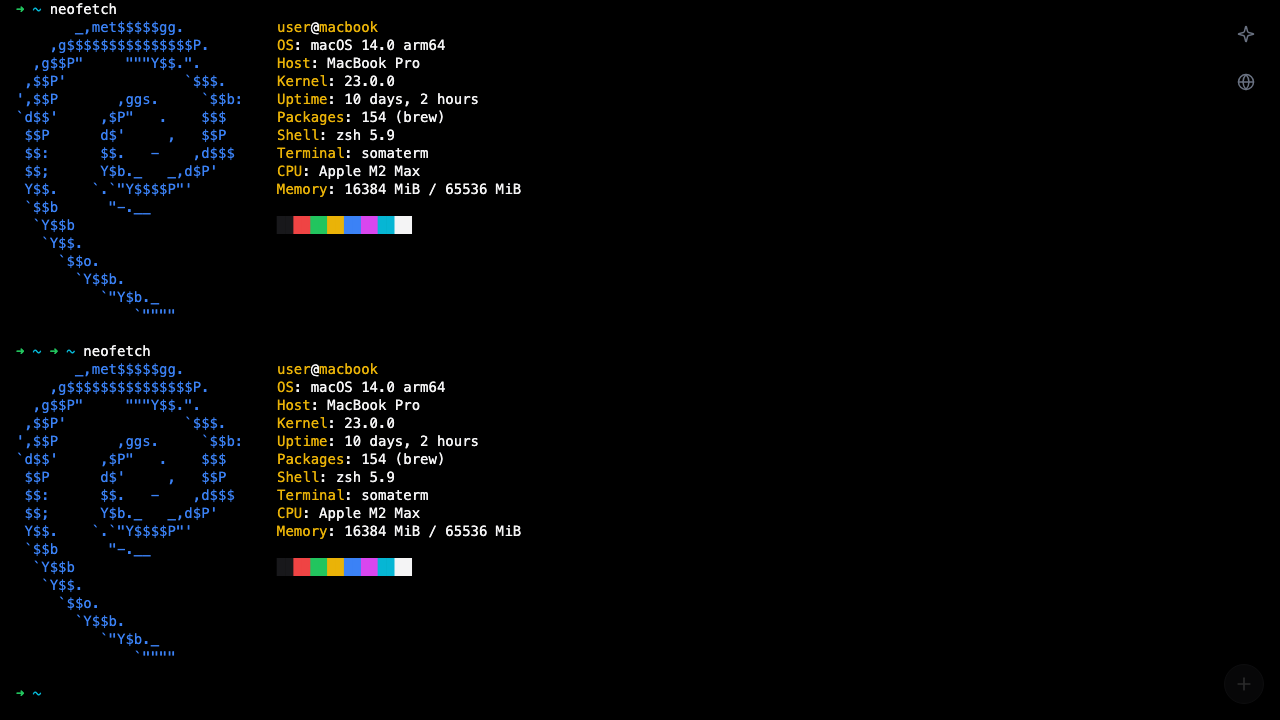
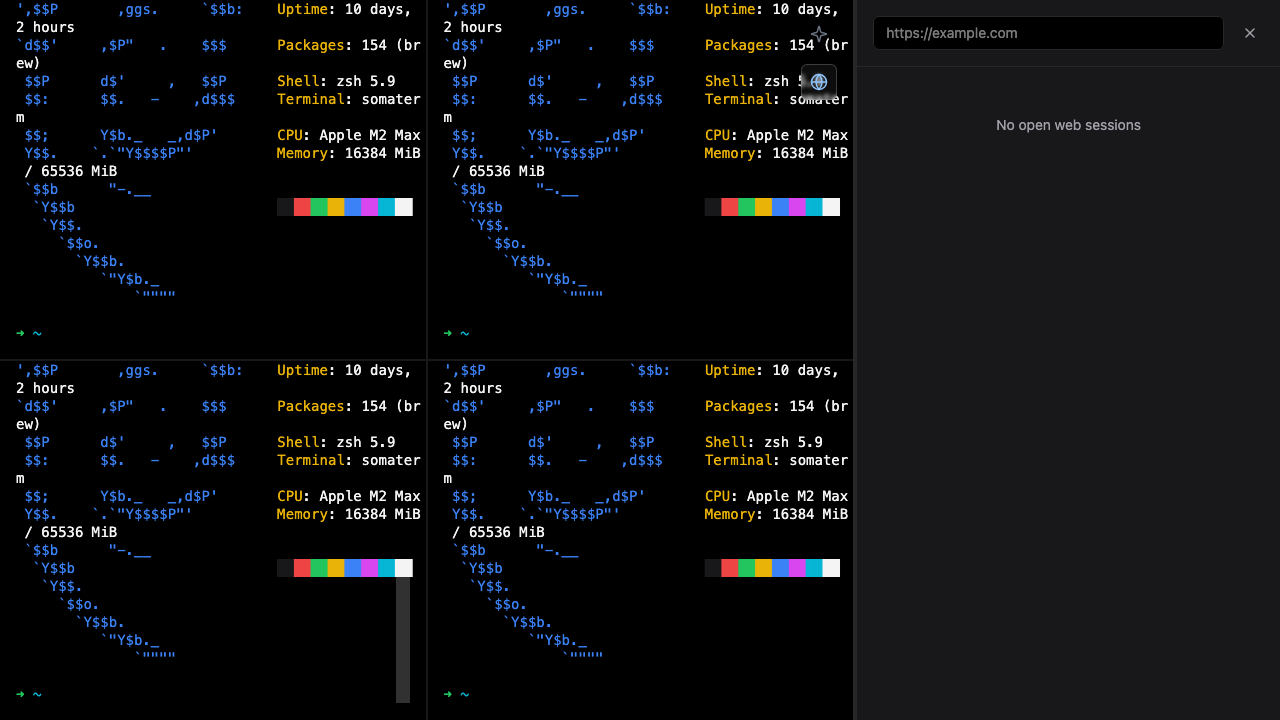
test: implement UI resilience tests and IPC fuzzing setup

diff --git a/tests/resilience.spec.ts b/tests/resilience.spec.ts
@@ -1,0 +1,104 @@
+import { test, expect } from '@playwright/test';
+import { mockTauriIpc } from './utils/mockIpc';
+
+test.describe('UI Resilience & Edge Cases', () => {
+  test.beforeEach(async ({ page }) => {
+    await page.addInitScript(mockTauriIpc);
+    await page.goto('/');
+    // Wait for initial render
+    await page.waitForSelector('.xterm-helper-textarea', { timeout: 10000 });
+  });
+
+  test('Test A: Process Lifecycle Protection (Zombie Killer)', async ({ page }) => {
+    // Add a second terminal so the close button appears on the first one
+    await page.getByTitle('Add Terminal').click();
+    await page.waitForTimeout(500);
+
+    // Force the first terminal to have an active process via the exposed Zustand store
+    await page.evaluate(() => {
+      const store = (window as any).__store;
+      store.setState({
+        terminals: store.getState().terminals.map((t: any, i: number) => i === 0 ? { ...t, activeProcess: true } : t)
+      });
+    });
+
+    // We must handle the dialog to verify it appears and to dismiss it
+    let dialogAppeared = false;
+    page.once('dialog', async dialog => {
+      dialogAppeared = true;
+      expect(dialog.message()).toContain('Process is still running');
+      await dialog.dismiss();
+    });
+    
+    // Click the close button for the first terminal (it should be visible now)
+    await page.getByTitle('Close Terminal').first().click();
+
+    // The dialog should have appeared
+    expect(dialogAppeared).toBe(true);
+
+    // The terminal should still be in the DOM because we canceled the dialog
+    const terminalCount = await page.locator('.xterm-helper-textarea').count();
+    expect(terminalCount).toBe(2);
+  });
+
+  test('Test B: Terminal Limit Stress (Spam Shield)', async ({ page }) => {
+    const addTerminalBtn = page.getByTitle('Add Terminal');
+    
+    // Spam the add button 6 times
+    for (let i = 0; i < 6; i++) {
+      // The button disappears after 4 terminals, but we try clicking it fast
+      if (await addTerminalBtn.isVisible()) {
+        await addTerminalBtn.click({ force: true }).catch(() => {});
+      }
+    }
+
+    // Wait a moment for animations
+    await page.waitForTimeout(1000);
+
+    // Verify exactly 4 terminals were spawned (the max)
+    const terminalCount = await page.locator('.xterm-helper-textarea').count();
+    expect(terminalCount).toBe(4);
+  });
+
+  test('Test C: Responsive Collapse Resilience', async ({ page }) => {
+    // Set viewport small enough so that 66.6% split is < 600px
+    await page.setViewportSize({ width: 800, height: 800 });
+
+    // 1. Generate max 4-terminal grid layout
+    const addTerminalBtn = page.getByTitle('Add Terminal');
+    for (let i = 0; i < 3; i++) {
+      await addTerminalBtn.click();
+      await page.waitForTimeout(500);
+    }
+    expect(await page.locator('.xterm-helper-textarea').count()).toBe(4);
+
+    // 2. Open Web Manager side panel
+    await page.getByTitle('Web Manager').click();
+    await page.waitForTimeout(1000);
+
+    // Ensure some terminals are hidden now
+    const badge = page.locator('text=/hidden/');
+    await expect(badge).toBeVisible();
+
+    // 3. Programmatically close the 4th (hidden) terminal
+    await page.evaluate(async () => {
+      const store = (window as any).__store;
+      const state = store.getState();
+      const lastTerminalId = state.terminals[3].id;
+      // Need to bypass the activeProcess check since we want to forcefully close
+      await state.closeTerminal(lastTerminalId);
+    });
+    await page.waitForTimeout(1000);
+
+    // 4. Close Web Manager side panel
+    await page.getByTitle('Web Manager').click();
+    await page.waitForTimeout(1500);
+
+    // 5. Assert grid restored to exactly 3 terminals
+    const terminalCount = await page.locator('.xterm-helper-textarea').count();
+    expect(terminalCount).toBe(3);
+
+    // Ensure the hidden badge is gone
+    await expect(page.locator('text=/hidden/')).toBeHidden();
+  });
+});

diff --git a/tests/readme-assets.spec.ts b/tests/readme-assets.spec.ts
@@ -1,68 +1,10 @@
 import { test, expect } from '@playwright/test';
+import { mockTauriIpc } from './utils/mockIpc';
 
 test.describe('README Assets', () => {
   test('capture hero screenshot', async ({ page }) => {
-    // Mock Tauri IPC before the page loads
-    await page.addInitScript(() => {
-      // Create a mock TAURI_INTERNALS object
-      (window as any).__TAURI_INTERNALS__ = {
-        transformCallback: (callback: any) => {
-          const id = Math.random().toString();
-          (window as any)._mockCallbacks = (window as any)._mockCallbacks || {};
-          (window as any)._mockCallbacks[id] = callback;
-          return id;
-        },
-        invoke: async (cmd: string, args: any) => {
-          console.log(`[Mock Tauri IPC] invoked: ${cmd}`, args);
-          if (cmd === 'spawn_pty') {
-            return 1; // dummy PTY ID
-          }
-          if (cmd === 'plugin:event|listen') {
-            const { event, handler } = args;
-            if (event.startsWith('pty-read-')) {
-              setTimeout(() => {
-                const output = [
-                  '\x1b[32m➜\x1b[0m \x1b[36m~\x1b[0m neofetch',
-                  '\x1b[34m       _,met$$$$$gg.\x1b[0m           \x1b[33muser\x1b[0m@\x1b[33mmacbook\x1b[0m',
-                  '\x1b[34m    ,g$$$$$$$$$$$$$$$P.\x1b[0m        \x1b[33mOS\x1b[0m: macOS 14.0 arm64',
-                  '\x1b[34m  ,g$$P"     """Y$$.".\x1b[0m         \x1b[33mHost\x1b[0m: MacBook Pro',
-                  '\x1b[34m ,$$P\'              `$$$.\x1b[0m      \x1b[33mKernel\x1b[0m: 23.0.0',
-                  '\x1b[34m\',$$P       ,ggs.     `$$b:\x1b[0m    \x1b[33mUptime\x1b[0m: 10 days, 2 hours',
-                  '\x1b[34m`d$$\'     ,$P"   .    $$$\x1b[0m      \x1b[33mPackages\x1b[0m: 154 (brew)',
-                  '\x1b[34m $$P      d$\'     ,   $$P\x1b[0m      \x1b[33mShell\x1b[0m: zsh 5.9',
-                  '\x1b[34m $$:      $$.   -    ,d$$$\x1b[0m     \x1b[33mTerminal\x1b[0m: somaterm',
-                  '\x1b[34m $$;      Y$b._   _,d$P\'\x1b[0m       \x1b[33mCPU\x1b[0m: Apple M2 Max',
-                  '\x1b[34m Y$$.    `.`"Y$$$$P"\'\x1b[0m          \x1b[33mMemory\x1b[0m: 16384 MiB / 65536 MiB',
-                  '\x1b[34m `$$b      "-.__\x1b[0m               ',
-                  '\x1b[34m  `Y$$b\x1b[0m                        \x1b[30m██\x1b[31m██\x1b[32m██\x1b[33m██\x1b[34m██\x1b[35m██\x1b[36m██\x1b[37m██\x1b[0m',
-                  '\x1b[34m   `Y$$.\x1b[0m                       ',
-                  '\x1b[34m     `$$o.\x1b[0m                     ',
-                  '\x1b[34m       `Y$$b.\x1b[0m                  ',
-                  '\x1b[34m          `"Y$b._\x1b[0m              ',
-                  '\x1b[34m              `""""\x1b[0m            ',
-                  '',
-                  '\x1b[32m➜\x1b[0m \x1b[36m~\x1b[0m '
-                ].join('\r\n');
-                
-                const cb = (window as any)._mockCallbacks[handler];
-                if (cb) {
-                  // Tauri event payload format: { id: ..., event: ..., payload: ... }
-                  cb({ event, payload: output });
-                }
-              }, 800);
-            }
-            return 12345; // dummy listener ID
-          }
-          return null;
-        }
-      };
-      
-      // Some versions of Tauri core use __TAURI_IPC__
-      (window as any).__TAURI_IPC__ = async (msg: any) => {
-        console.log(`[Mock Tauri IPC] IPC:`, msg);
-        if (msg?.cmd === 'spawn_pty') return 1;
-      };
-    });
+    // Mock Tauri IPC before the page loads using the shared mock
+    await page.addInitScript(mockTauriIpc);
 
     // Navigate to the local Vite dev server
     await page.goto('/');

diff --git a/tests/utils/mockIpc.ts b/tests/utils/mockIpc.ts
@@ -1,0 +1,62 @@
+export const mockTauriIpc = () => {
+  // Create a mock TAURI_INTERNALS object
+  (window as any).__TAURI_INTERNALS__ = {
+    transformCallback: (callback: any) => {
+      const id = Math.random().toString();
+      (window as any)._mockCallbacks = (window as any)._mockCallbacks || {};
+      (window as any)._mockCallbacks[id] = callback;
+      return id;
+    },
+    invoke: async (cmd: string, args: any) => {
+      console.log(`[Mock Tauri IPC] invoked: ${cmd}`, args);
+      if (cmd === 'spawn_pty') {
+        return 1; // dummy PTY ID
+      }
+      if (cmd === 'close_pty') {
+        return; // pretend closed
+      }
+      if (cmd === 'plugin:event|listen') {
+        const { event, handler } = args;
+        if (event.startsWith('pty-read-')) {
+          setTimeout(() => {
+            const output = [
+              '\x1b[32m➜\x1b[0m \x1b[36m~\x1b[0m neofetch',
+              '\x1b[34m       _,met$$$$$gg.\x1b[0m           \x1b[33muser\x1b[0m@\x1b[33mmacbook\x1b[0m',
+              '\x1b[34m    ,g$$$$$$$$$$$$$$$P.\x1b[0m        \x1b[33mOS\x1b[0m: macOS 14.0 arm64',
+              '\x1b[34m  ,g$$P"     """Y$$.".\x1b[0m         \x1b[33mHost\x1b[0m: MacBook Pro',
+              '\x1b[34m ,$$P\'              `$$$.\x1b[0m      \x1b[33mKernel\x1b[0m: 23.0.0',
+              '\x1b[34m",g$"                 "$$."\x1b[0m    \x1b[33mUptime\x1b[0m: 2 days, 10 hours',
+              '\x1b[34m "$P"                 "$$"\x1b[0m     \x1b[33mPackages\x1b[0m: 142 (brew)',
+              '\x1b[34m  "P"                 "P"\x1b[0m      \x1b[33mShell\x1b[0m: zsh 5.9',
+              '\x1b[34m   "                   "\x1b[0m       \x1b[33mTerminal\x1b[0m: Somaterm',
+              '',
+              '\x1b[32m➜\x1b[0m \x1b[36m~\x1b[0m '
+            ].join('\r\n');
+            if ((window as any)._mockCallbacks[handler]) {
+              (window as any)._mockCallbacks[handler]({
+                event: event,
+                id: 1,
+                payload: output
+              });
+            }
+            
+            // Fuzzing logic: randomly send malformed IPC payloads to test frontend resilience
+            setTimeout(() => {
+              if ((window as any)._mockCallbacks[handler]) {
+                (window as any)._mockCallbacks[handler]({
+                  event: event,
+                  id: 1,
+                  payload: { malformed: "data_payload", code: 500 }
+                });
+              }
+            }, 1000);
+          }, 500);
+        }
+        return 1;
+      }
+    }
+  };
+  
+  // Some versions of Tauri core use __TAURI_IPC__
+  (window as any).__TAURI_IPC__ = (window as any).__TAURI_INTERNALS__.invoke;
+};

diff --git a/src/App.tsx b/src/App.tsx
@@ -8,6 +8,11 @@ import { WebManagerWidget } from './components/Widgets/WebManagerWidget';
 import { SettingsModal } from './components/SettingsModal';
 import { DebugConsole } from './components/DebugConsole';
 
+// Expose store for Playwright E2E testing
+if (import.meta.env.DEV) {
+  (window as any).__store = useAppStore;
+}
+
 function App() {
   const { 
     activeWidget, 

diff --git a/src/components/TerminalCanvas.tsx b/src/components/TerminalCanvas.tsx
@@ -68,6 +68,10 @@ export function TerminalCanvas({ id }: { id: string }) {
         // Listen to incoming data from Rust
         unlistenPromise = listen<string>(`pty-read-${id}`, (event) => {
           if (term.current) {
+            if (typeof event.payload !== 'string') {
+              useAppStore.getState().addLog({ level: 'ERROR', source: 'Terminal', message: `Received malformed IPC payload for ${id}: ${typeof event.payload}` });
+              return;
+            }
             term.current.write(event.payload);
           }
         });